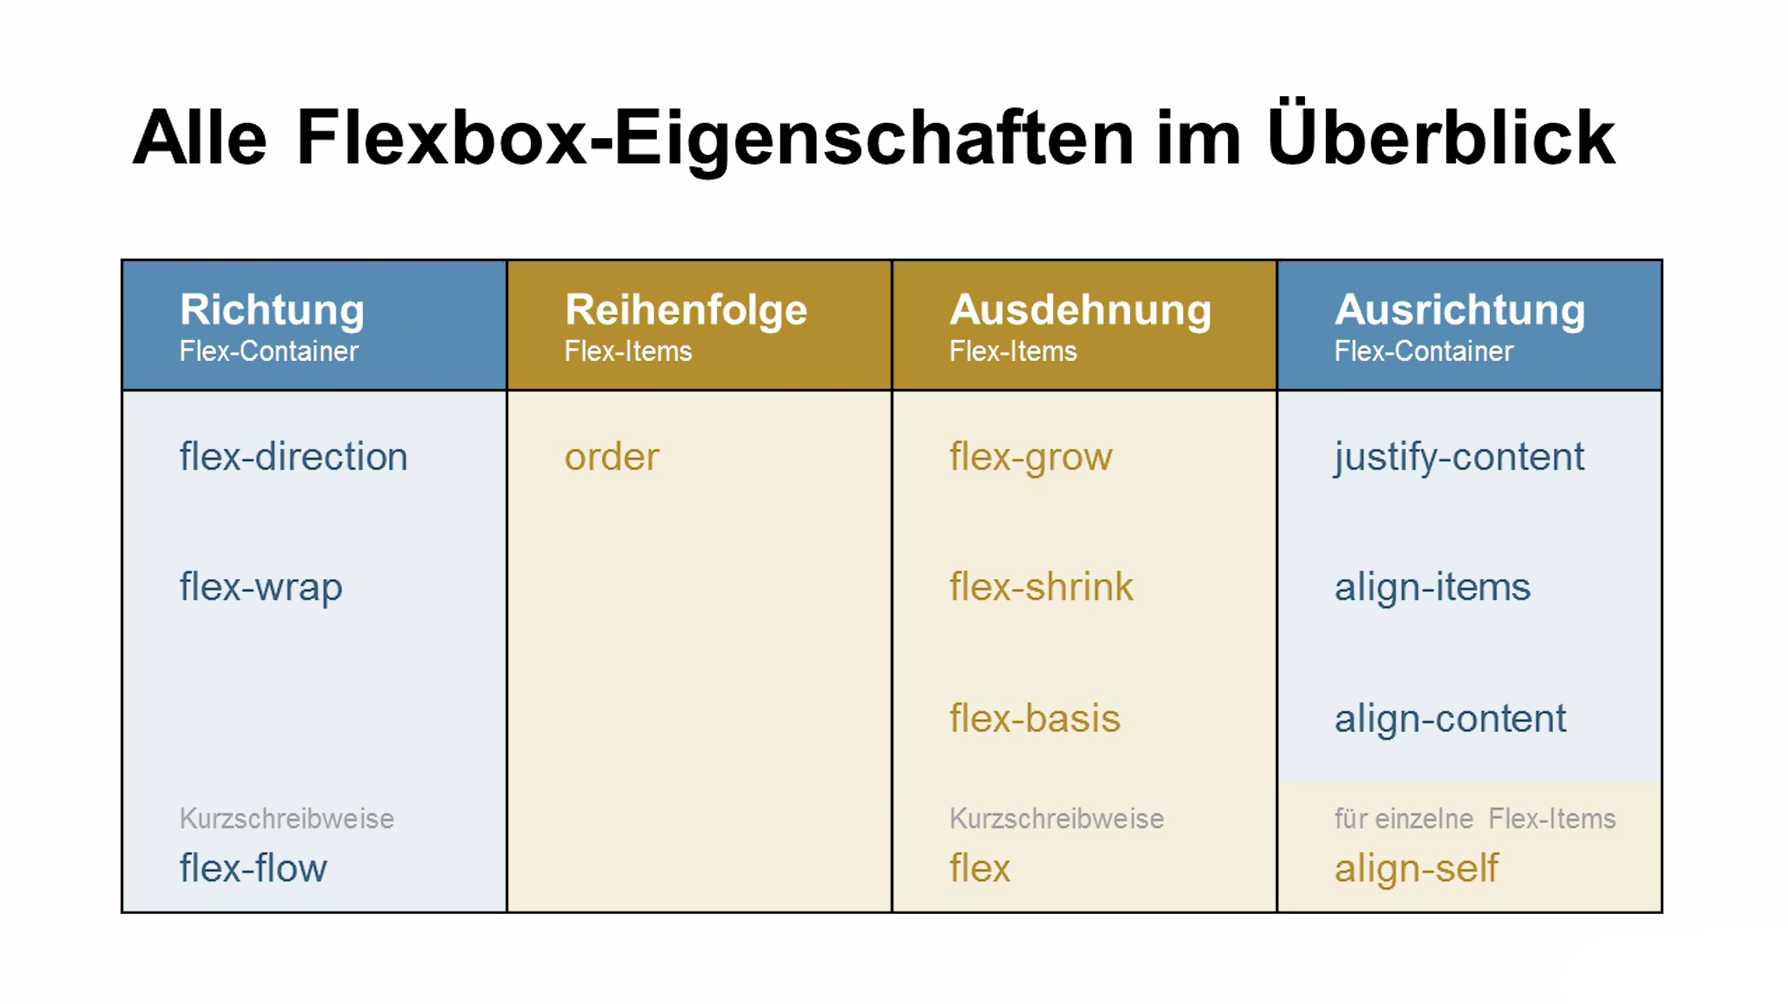
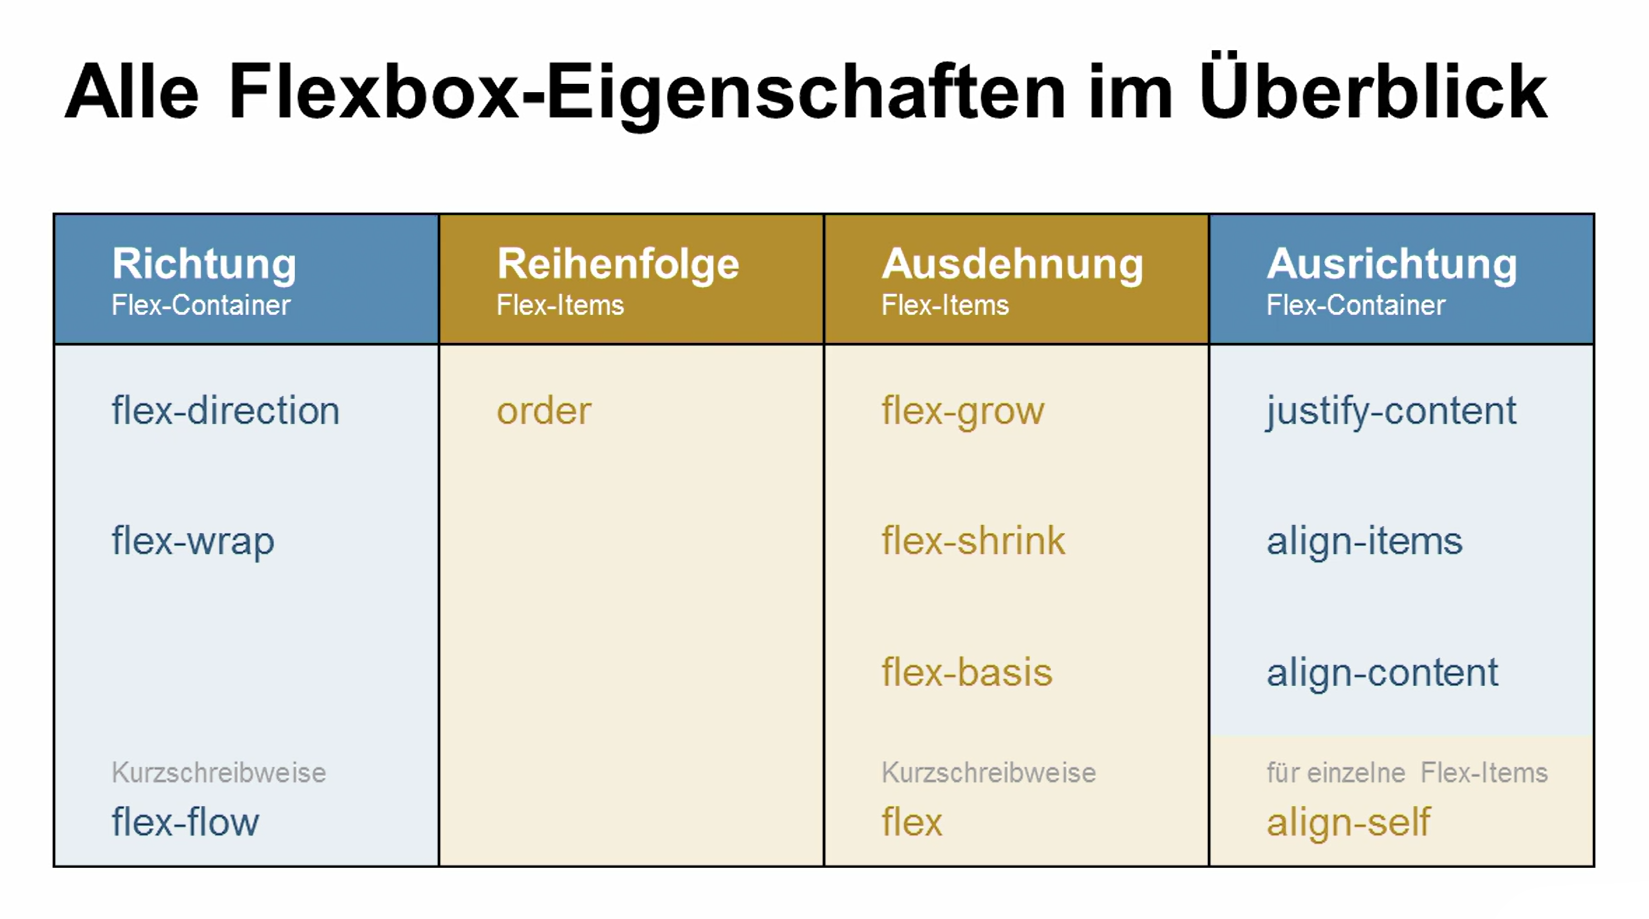
responsive size ect

diff --git a/markup/10.1-flexbox.html b/markup/10.1-flexbox.html
@@ -20,14 +20,56 @@
                 font-family: vt323, serif;
             }
 
+            img {
+                object-fit: cover;
+                width: 100%;
+                margin: 0 auto;
+            }
+
             ul {
                 display: flex;
                 list-style-type: none;
+                border: 1px solid black;
+                max-width: 40rem;
+                height: 5rem;
+                padding: .25rem;
+                margin: 0 auto;
+            }
+
+            ul li {
+                padding: .25rem .5rem;
+                margin: .5rem;
+                text-align: center;
+                vertical-align: middle;
+                background-color: #2FA5E9;
+            }
+
+            ul#two {
+                height: auto;
+                background-color: lightslategrey;
+            }
+
+            ul#two li {
+                flex: 1;
+            }
+
+            ul#three {
+                height: auto;
+                background-color: lightslategrey;
+                justify-content: flex-start; /* default: flex-start; flex-end; center; space-around; space-between;   */
+            }
+
+            ul#three li:last-of-type {
+                margin-left: auto;
             }
         </style>
     </head>
     <body>
         <h1>CSS3</h1>
+        <hr>
+        <img src="../img/flex-modell.PNG" alt="flex-modell">
+        <hr>
+        <!--
         <ul>
             <li>
                 <span class="fa fa-home" aria-hidden="true"></span>
@@ -42,10 +84,35 @@
                 <span class="fa fa-quote-left fa-3x fa-pull-left fa-border" aria-hidden="true"></span>
             </li>
         </ul>
+        -->
+
+        <ul id="one">
+            <li>AAAA</li>
+            <li>BBBB</li>
+            <li>CC<br>CC</li>
+            <li>DDDD</li>
+            <li>EEEE</li>
+        </ul>
         <p>
             Lorem ipsum dolor sit amet, consectetur adipiscing elit. Mauris quis ligula tortor. Duis dictum, dolor eget dignissim
             scelerisque, augue lorem dictum nisl, quis molestie purus lectus vel ligula. Curabitur eget nisl mauris. Donec
             pharetra tellus sollicitudin lacus volutpat lacinia.
         </p>
+        <ul id="two">
+            <li>AAAA</li>
+            <li>BBBB</li>
+            <li>CCCC</li>
+            <li>DDDD</li>
+            <li>EEEE</li>
+        </ul>
+        <hr>
+        <ul id="three">
+            <li>AAAA</li>
+            <li>BBBB</li>
+            <li>CCCC</li>
+            <li>DDDD</li>
+            <li>EEEE</li>
+        </ul>
+        <img src="../img/flex-eigenschaften.PNG" alt="flex-eigenschaften">
     </body>
 </html>
